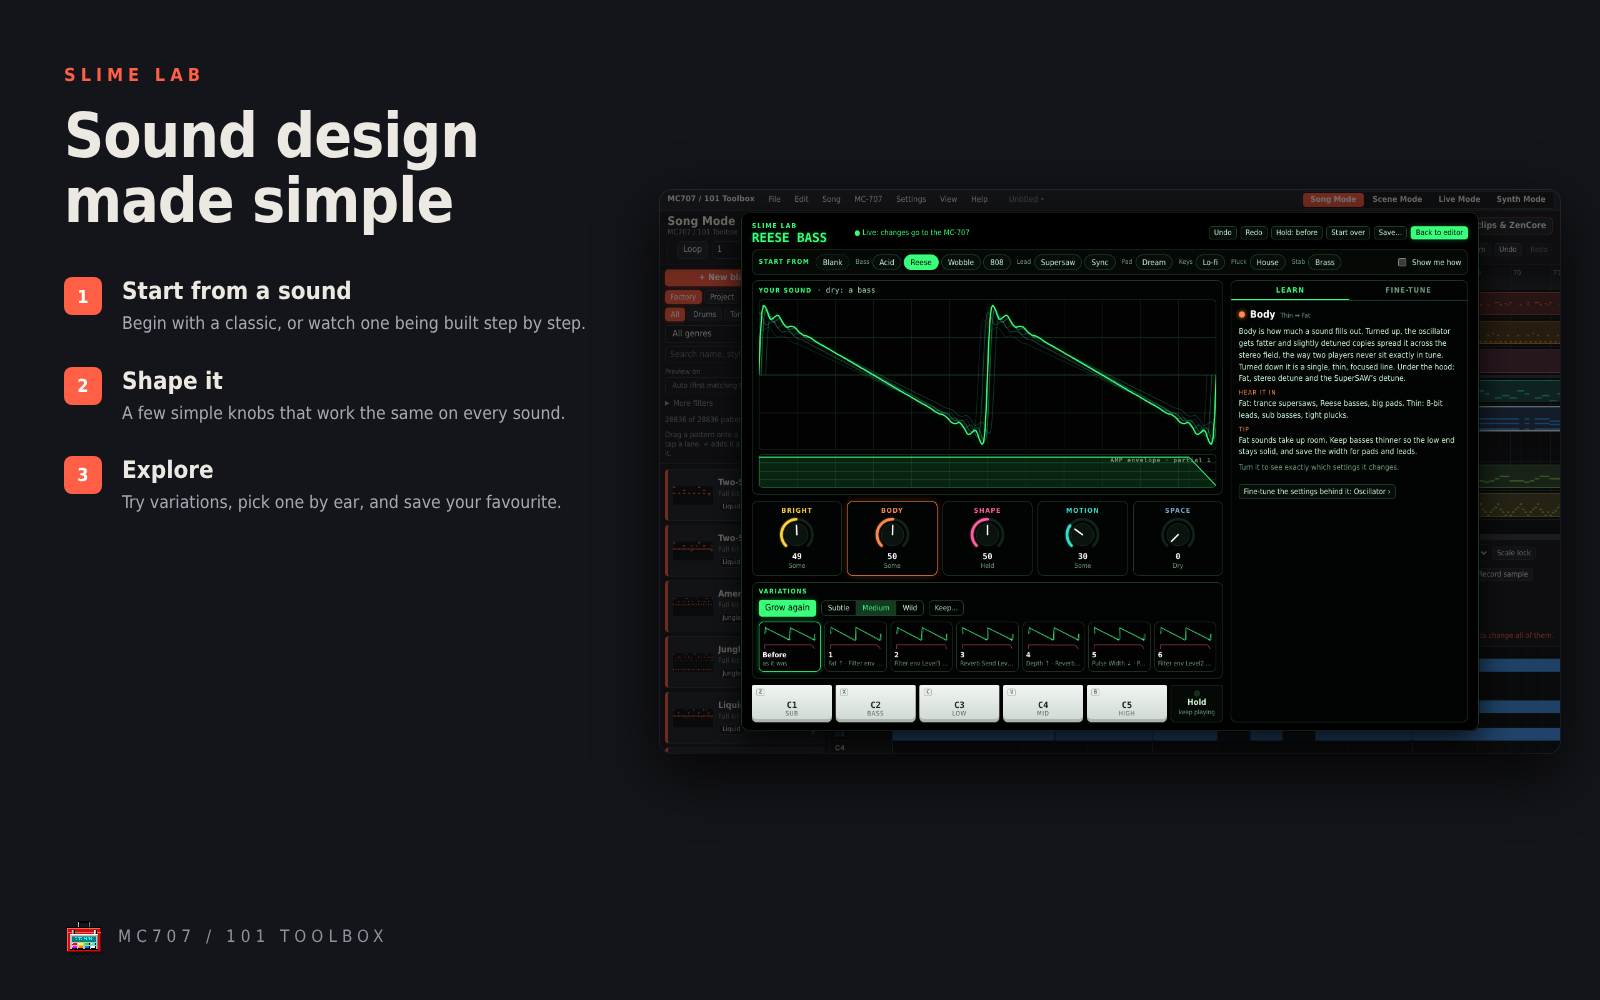
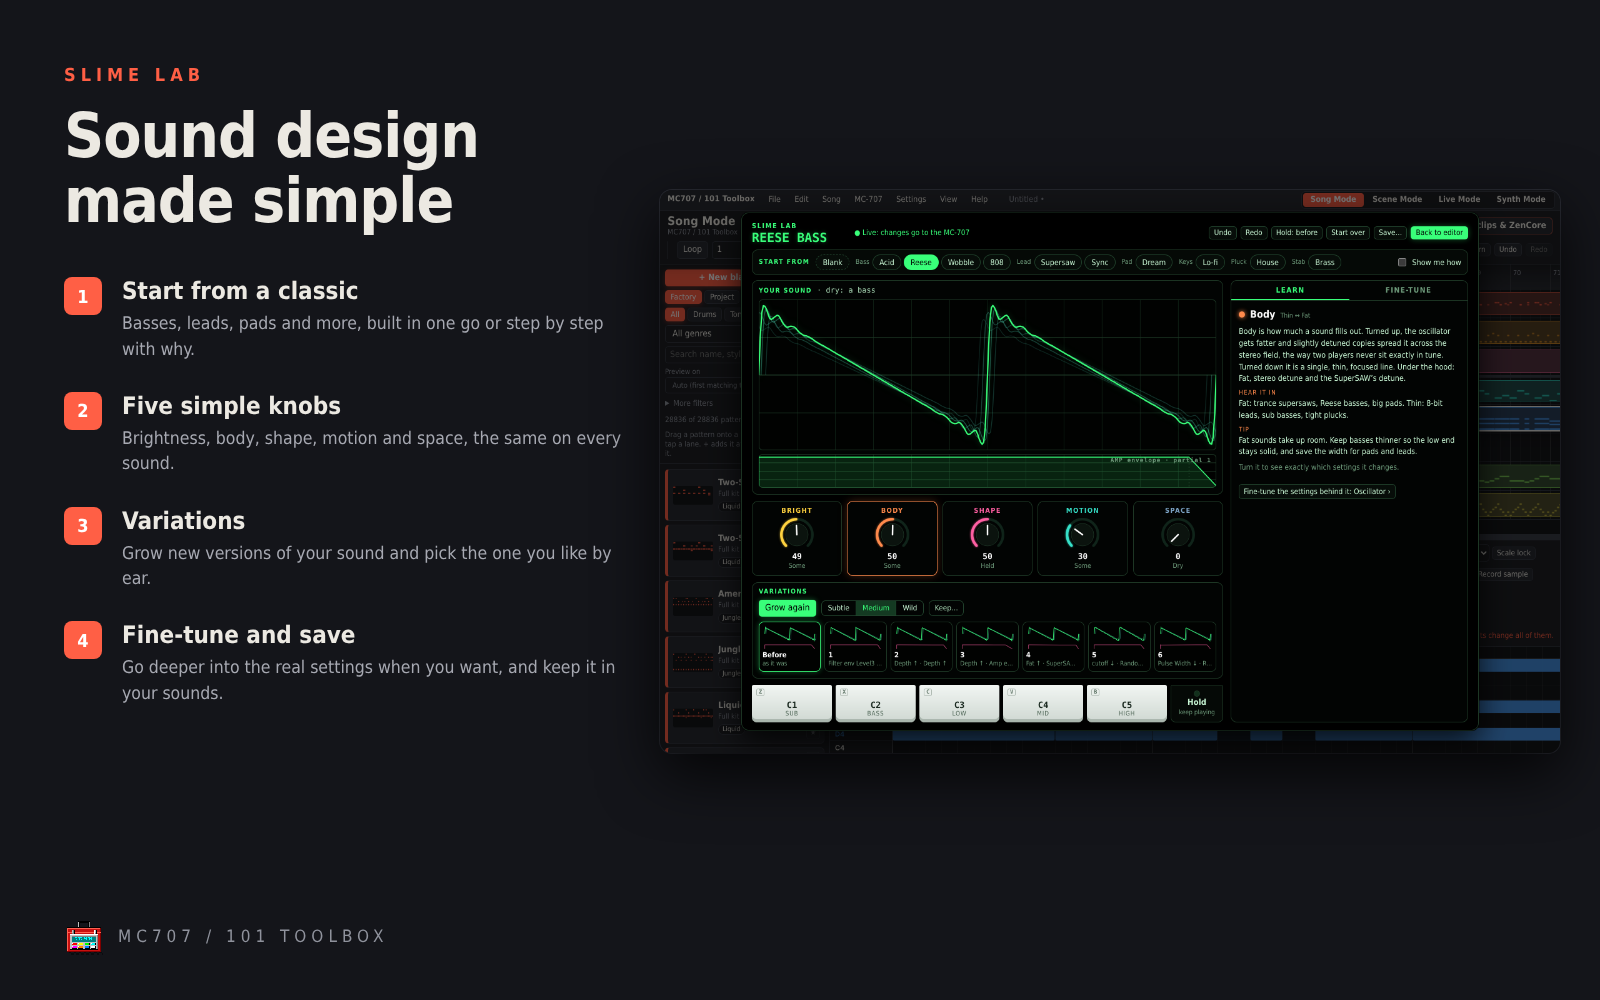
README and pictures: the main features with a little more detail
Claude-Session: https://claude.ai/code/session_013JHr4DUtWBdvd7qggkPUu7

Changed region(s): [[0.0312, 0.279, 0.375, 0.589], [0.0312, 0.62, 0.375, 0.713]]

diff --git a/README.md b/README.md
@@ -12,37 +12,37 @@ Write songs, put them on your **Roland MC-707 or MC-101**, play live sets and de
 
 ### Song Mode
 
-Make your own music: write beats, basslines, chords and melodies, arrange them into a whole track and hear it on the MC-707 as you go. A big pattern library and a song wizard are there when you want a head start, and you can record the audio or export your song. [More](#song-mode-1)
+Make your own music and play it on the MC-707 note for note. Write drums, bass, chords and melodies in a step grid or piano roll (or play them in on your keys), and arrange them on a timeline into a whole song. Over 28,000 patterns in 42 styles and a song wizard are there when you want a head start. Record every track's audio over USB, or export MIDI. [More](#song-mode-1)
 
 ![Song Mode](docs/features/1-song-mode.png)
 
 ### Scene Mode
 
-Arrange your song as MC-707 clips and scenes, laid out just like its own screen, and send it over USB or as a project file. The MC-707 then plays it by itself, no computer needed. [More](#scene-mode-1)
+Turn your song into MC-707 clips and a chain of scenes, on a board laid out just like the MC-707's own screen. Write it over USB or save a project file for the SD card, and the MC-707 plays the whole song by itself, sounds and all, with no computer. [More](#scene-mode-1)
 
 ![Scene Mode](docs/features/2-scene-mode.png)
 
 ### Live Mode
 
-Play a live set from 16 pads: pick a style, change scenes, drop breaks and fills, and shape the sound as you go. Record your own riffs into the set, or let auto-pilot take over. [More](#live-mode-1)
+Play a live set from 16 pads, laid out like the MC-707's. Pick a style and the app writes a set of scenes that fit together; change scenes, swap parts and drop breaks, fills and builds, all on the beat. Record your own riffs into the set with Loop rec, or let auto-pilot run it. [More](#live-mode-1)
 
 ![Live Mode](docs/features/3-live-mode.png)
 
 ### Synth Mode
 
-Use the MC-707 as an 8-track synth for your DAW: pick, edit and mix the sound on every track, and save the whole setup. [More](#synth-mode-1)
+The MC-707 as an 8-track synth for your DAW: pick, edit and mix the sound on each track, open any track's editor beside the others, and save all eight sounds as a setup. [More](#synth-mode-1)
 
 ![Synth Mode](docs/features/4-synth-mode.png)
 
 ### ZenCore editor
 
-Edit every setting of the MC-707's sounds on a big screen, and keep your own sound library alongside starters and factory tones. [More](#zencore-editor-1)
+Every setting of the MC-707's tones and drum kits on a big screen, with filters, envelopes and LFOs you can drag, and a sound library for your own sounds, starters and factory tones. [More](#zencore-editor-1)
 
 ![ZenCore editor](docs/features/5-zencore-editor.png)
 
 ### Slime Lab
 
-Sound design made simple: start from a classic sound, shape it with a few easy knobs, try variations and save your favourite. [More](#slime-lab-1)
+Sound design made simple: start from a classic sound, shape it with five knobs that work the same on every sound, grow variations and pick one by ear, then fine-tune it and save it to your sounds. [More](#slime-lab-1)
 
 ![Slime Lab](docs/features/6-slime-lab.png)
 
